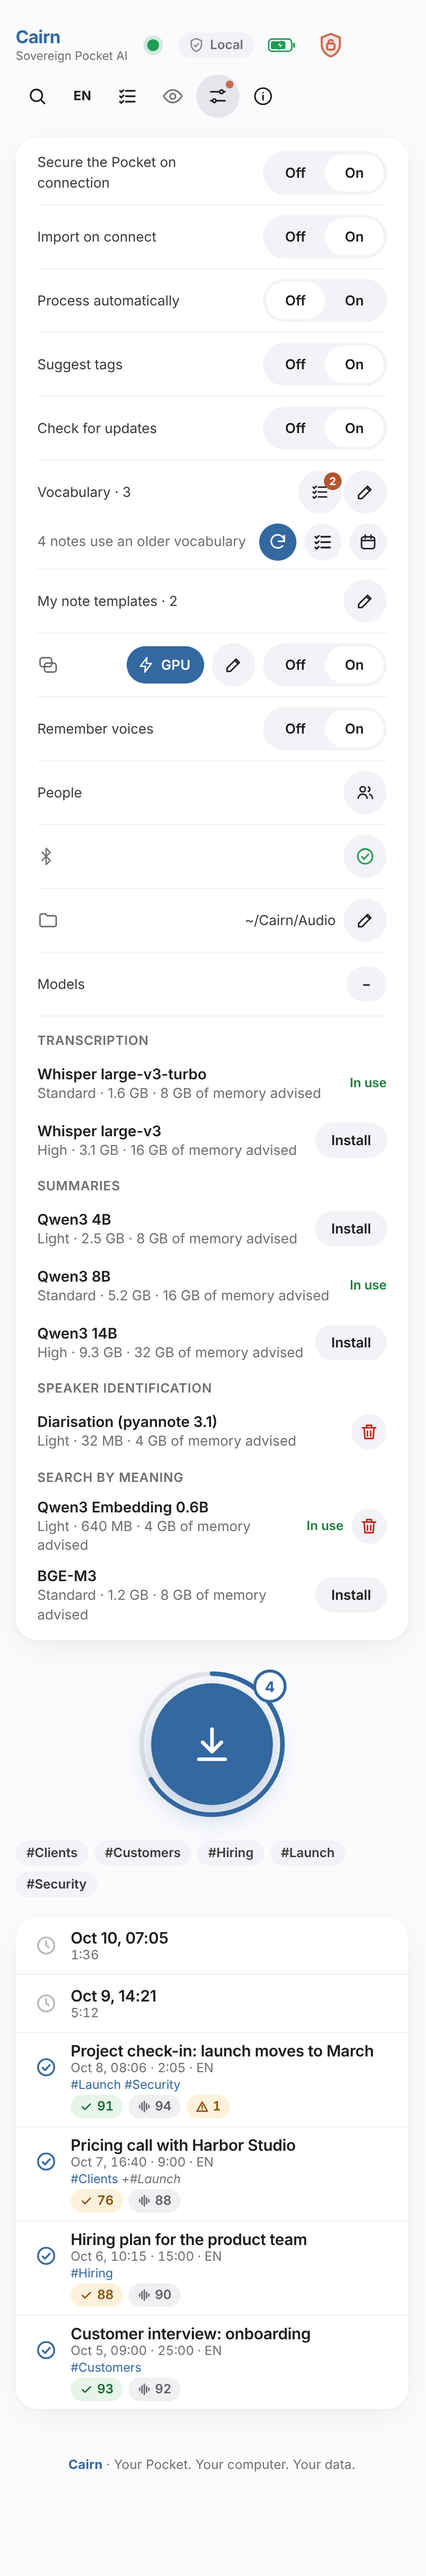
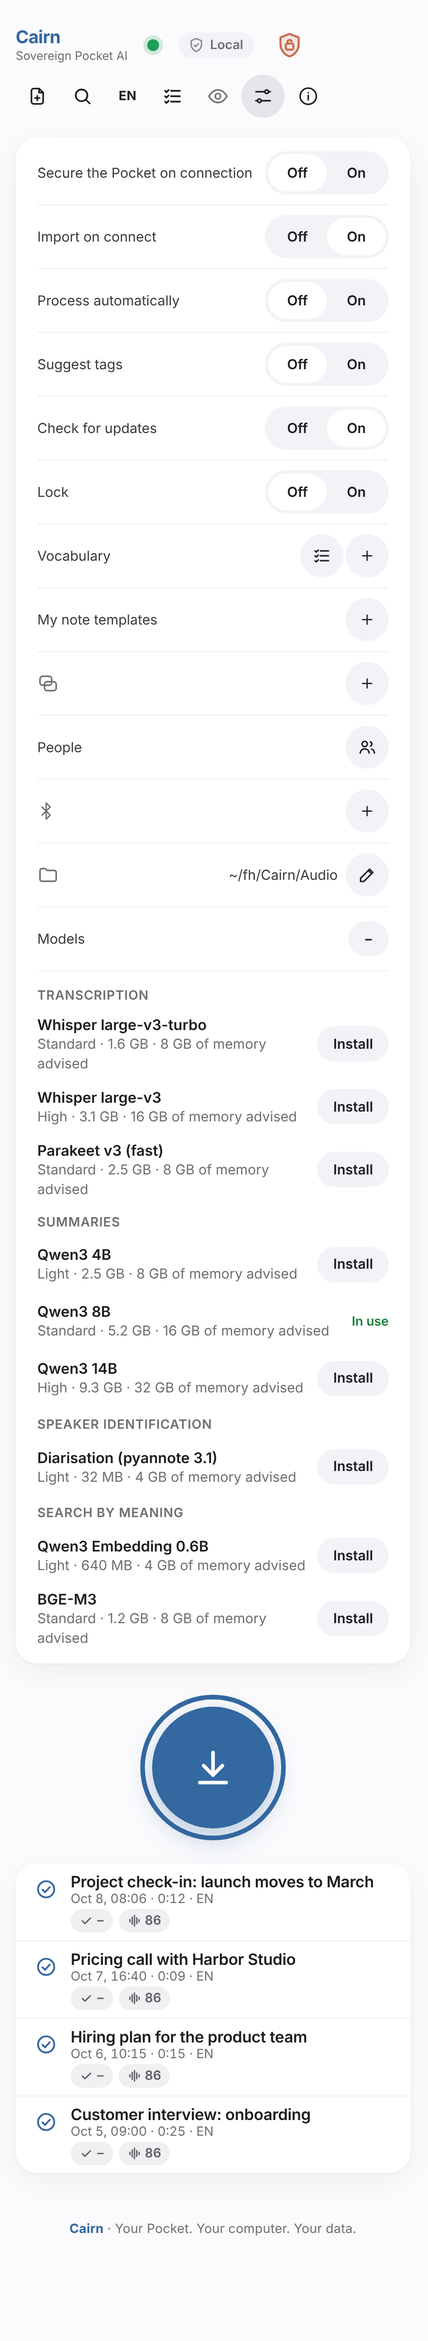
Screenshots and feature image for 0.7, with invented data
Claude-Session: https://claude.ai/code/session_01UT5uZrk6Gq6V23fEccnyNy

diff --git a/README.md b/README.md
@@ -6,7 +6,7 @@
 
 **No cloud. No account. No telemetry. Nothing leaves your machine.**
 
-![Cairn: import, secure Pocket, transcribe, people, notes, templates, search, ask your notes, listen and fix, tags, actions, follow-up, vocabulary, export](docs/brand/features.png)
+![Cairn: import, audio files, secure Pocket, lock, transcribe, people, notes, templates, search, ask your notes, listen and fix, tags, actions, follow-up, vocabulary, export](docs/brand/features.png)
 
 ## What Cairn does
 
@@ -49,9 +49,13 @@ What is new in each version: [Release notes](docs/RELEASE-NOTES.md).
 |---|---|---|
 | ![Settings](docs/screenshots/settings.png) | ![Note templates](docs/screenshots/templates.png) | ![Models](docs/screenshots/models.png) |
 
-| About | Export to HTML (transcript folded) | Copy for an email |
+| About | Locked, with a password or Touch ID | Export to HTML (transcript folded) |
 |---|---|---|
-| ![About](docs/screenshots/about.png) | ![HTML export](docs/screenshots/html-export.png) | ![Email](docs/screenshots/email.png) |
+| ![About](docs/screenshots/about.png) | ![Cairn is locked](docs/screenshots/locked.png) | ![HTML export](docs/screenshots/html-export.png) |
+
+| Copy for an email |
+|---|
+| ![Email](docs/screenshots/email.png) |
 
 > **Status: v0.7.0, stable.** Runs in your browser, offline. Tested end to end on macOS (Apple silicon); Windows is checked in CI, not yet on real hardware; Intel Mac and Linux are untested. See the [release notes](docs/RELEASE-NOTES.md).
 
